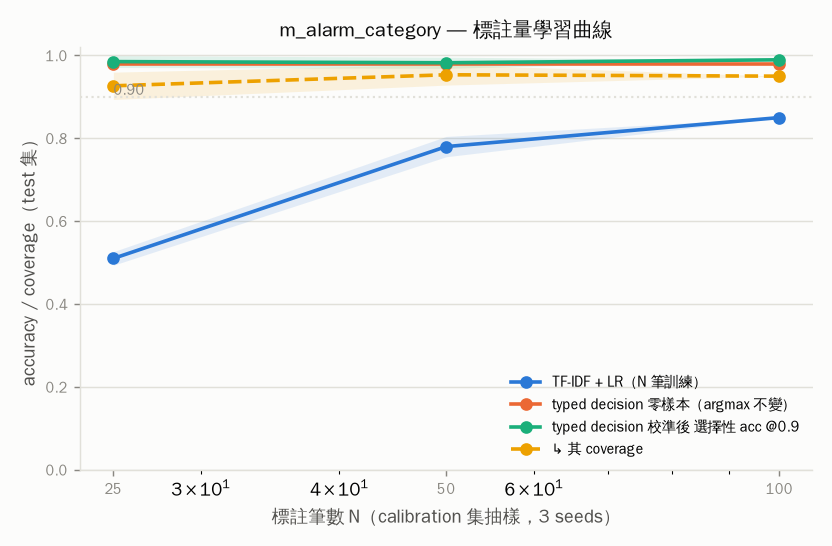
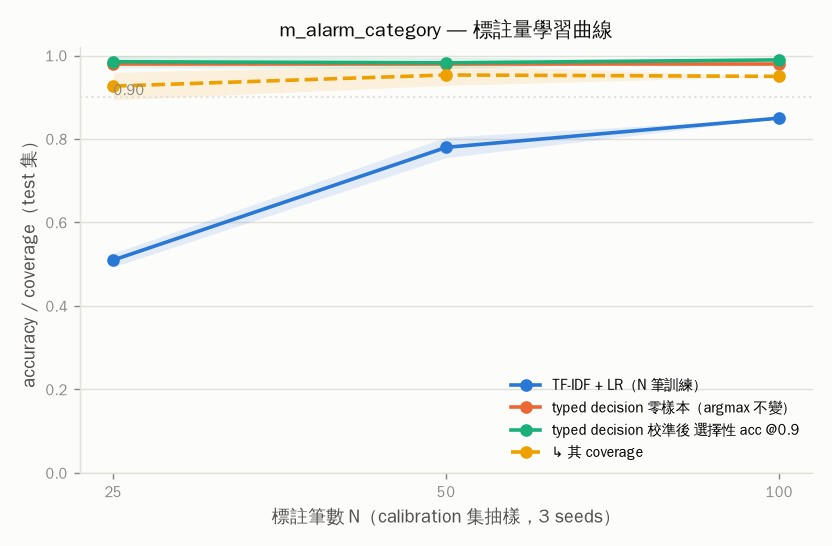
Add cost record; fix learning-curve axis ticks
Claude-Session: https://claude.ai/code/session_01AzrnNxWVu8No9FpCRyC5Ci

diff --git a/bench/analyze.py b/bench/analyze.py
@@ -237,7 +237,9 @@ def learning_curve_fig(task, curve, path):
         ax.fill_between(ns, np.array(m) - np.array(s), np.array(m) + np.array(s), color=col, alpha=0.12, lw=0)
     ax.axhline(0.9, color=C["grid"], lw=1.2, ls=":", zorder=1)
     ax.text(curve["N"][0], 0.905, "0.90", fontsize=8, color=C["muted"])
+    from matplotlib.ticker import NullFormatter, NullLocator
     ax.set_xscale("log"); ax.set_xticks(curve["N"]); ax.set_xticklabels([str(n) for n in curve["N"]])
+    ax.xaxis.set_minor_locator(NullLocator()); ax.xaxis.set_minor_formatter(NullFormatter())
     ax.set_ylim(0, 1.02); ax.set_xlabel("標註筆數 N（calibration 集抽樣，3 seeds）", color=C["sec"]); ax.set_ylabel("accuracy / coverage（test 集）", color=C["sec"])
     ax.set_title(f"{task} — 標註量學習曲線", fontsize=11, color=C["ink"])
     ax.grid(axis="y", color=C["grid"], lw=0.8); ax.set_axisbelow(True)

diff --git a/results/cost.md b/results/cost.md
@@ -1,0 +1,17 @@
+# 實際費用與 GPU 時間（對照 handoff v2 §2 估算）
+
+日期：2026-09-23。GPU 全部為 Modal L4（約 $0.80/h）；下列時間取自各 run 的 `_run.json` 與 CLI 觀察，Modal dashboard 為準。
+
+| 里程碑 | 內容 | Modal 時間 | 估算費用 | v2 估算 |
+|---|---|---|---|---|
+| M0 環境 | image build（CPU）、probe（L4 約 1 分鐘）、GGUF 下載 17 GB（CPU 容器約 3 分鐘） | GPU 0.02 h | < $0.1 | 0.5 h / < $1 |
+| M1 Smoke | 2 次（第一次 thinking 未關，第二次採用設定），每次含 17 s 模型載入 | GPU 0.05 h | < $0.1 | 0.2 h / < $0.5 |
+| M2 資料 | Claude Code（Fable）撰寫 seeds / 產生器 / 難例 / 抽查；無 GPU | 0 | 訂閱額度 | 0 |
+| M3 延遲 | L1–L7 一次跑完 1355 s + 額外 `--swa-full` 對照（L1/L4，n=100） | GPU ≈ 0.55 h | ≈ $0.45 | 0.5–1 h / ~$1 |
+| M4 準確率 | 10 task × 200 筆 logprob + 10 × 100 筆 JSON 對照，724 s | GPU 0.2 h | ≈ $0.17 | 1–1.5 h / ~$1.5 |
+| M5 分析 | 本機 CPU | 0 | 0 | 0 |
+| 除錯重跑 | image entrypoint / click 參數名 crash loop（CPU，數分鐘） | ≈ 0 | < $0.1 | 1–2 h / ~$2 |
+| **合計** | | **GPU ≈ 0.85 h** | **≈ $0.7–1** | 4–6 h / $4–6 |
+
+比估算省很多的原因：MoE A4B 在 L4 上每題 200 ms 級，2000 筆 + 1000 筆對照只要 12 分鐘；資料由 Claude Code 端產生不吃 GPU。
+AI Studio：僅用於能力探測（4 次呼叫），未用於資料補產。
